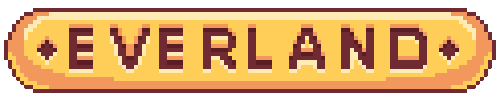
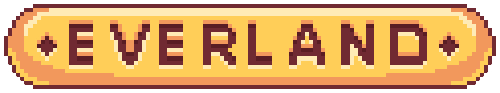
flare on sign

diff --git a/style.css b/style.css
@@ -9,7 +9,7 @@ html, body, #site-wrapper {
 
 #site-wrapper {
     animation-name: mist;
-    animation-duration: 4s;
+    animation-duration: 7s;
     animation-iteration-count: 1;
     animation-timing-function: ease;
 }
@@ -84,18 +84,24 @@ body::after {
 
 #everland-sign {
     position: absolute;
-    top: calc(((100vh - ((97 / 500) * 60vh)) / 2) + (((305 / 2) / 500) * 60vh));   
+    top: calc(((100vh - ((93 / 500) * 60vh)) / 2) + (((309 / 2) / 500) * 60vh));   
     left: calc((100vw - 60vh) / 2);
     opacity: 0;
-    content: url("assets/everland-sign.png");
-    z-index: 40;
+    background-image: url("assets/everland-sign.png");
+    background-repeat: no-repeat;
+    background-size: cover;
+    border-radius: calc((40 / 500) * 60vh);
+    z-index: 60;
     width: 60vh;
+    height: calc((93 / 500) * 60vh);
     animation-name: fadein;
     animation-duration: 6s;
     animation-delay: 4s;
     animation-iteration-count: 1;
     animation-timing-function: ease-in;
     animation-fill-mode: forwards;
+    overflow: hidden;
+    display: inline-block;
 }
 
 #shamrock {
@@ -115,4 +121,30 @@ body::after {
 
 #shamrock:hover {
     transform: rotate(15deg);
+}
+
+#everland-sign::after {
+    content: ""; 
+    position: absolute;
+    left: -200%;     
+    width: 200%;
+    height: 100%;
+    opacity: 0;
+    z-index: 51;
+    background: rgba(245, 234, 46, 0.13);
+    background: linear-gradient(
+    to right,
+    rgba(255, 255, 255, 0.13) 0%,
+    rgba(245, 234, 46, 0.13) 77%,
+    rgba(245, 234, 46, 0.5) 92%,
+    rgba(245, 234, 46, 0.0) 100%
+    );
+}
+
+#everland-sign:hover::after {
+    opacity: 1;
+    left: -30%;
+    transition-property: left, opacity;
+    transition-duration: 2s, 0.15s;
+    transition-timing-function: ease;
 }

diff --git a/index.html b/index.html
@@ -17,7 +17,7 @@
             </div>
         <img id="clouds" src="assets/clouds.png" alt="clouds on a blue background">
         </div>
-        <img id="everland-sign">
+        <div id="everland-sign"></div>
         <img id="shamrock">
     </div>
 </body>
